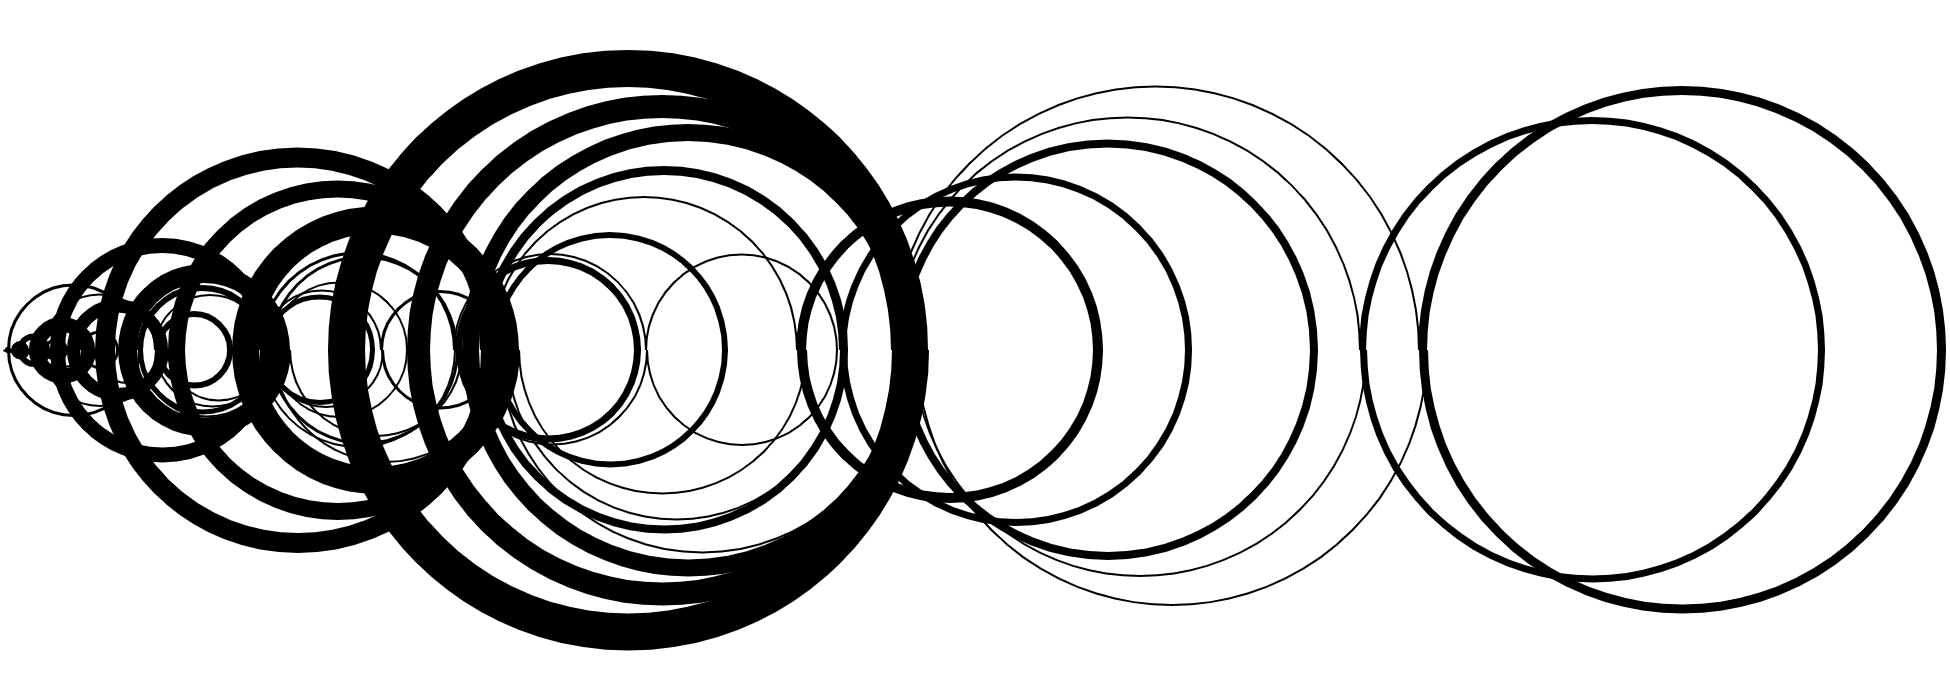
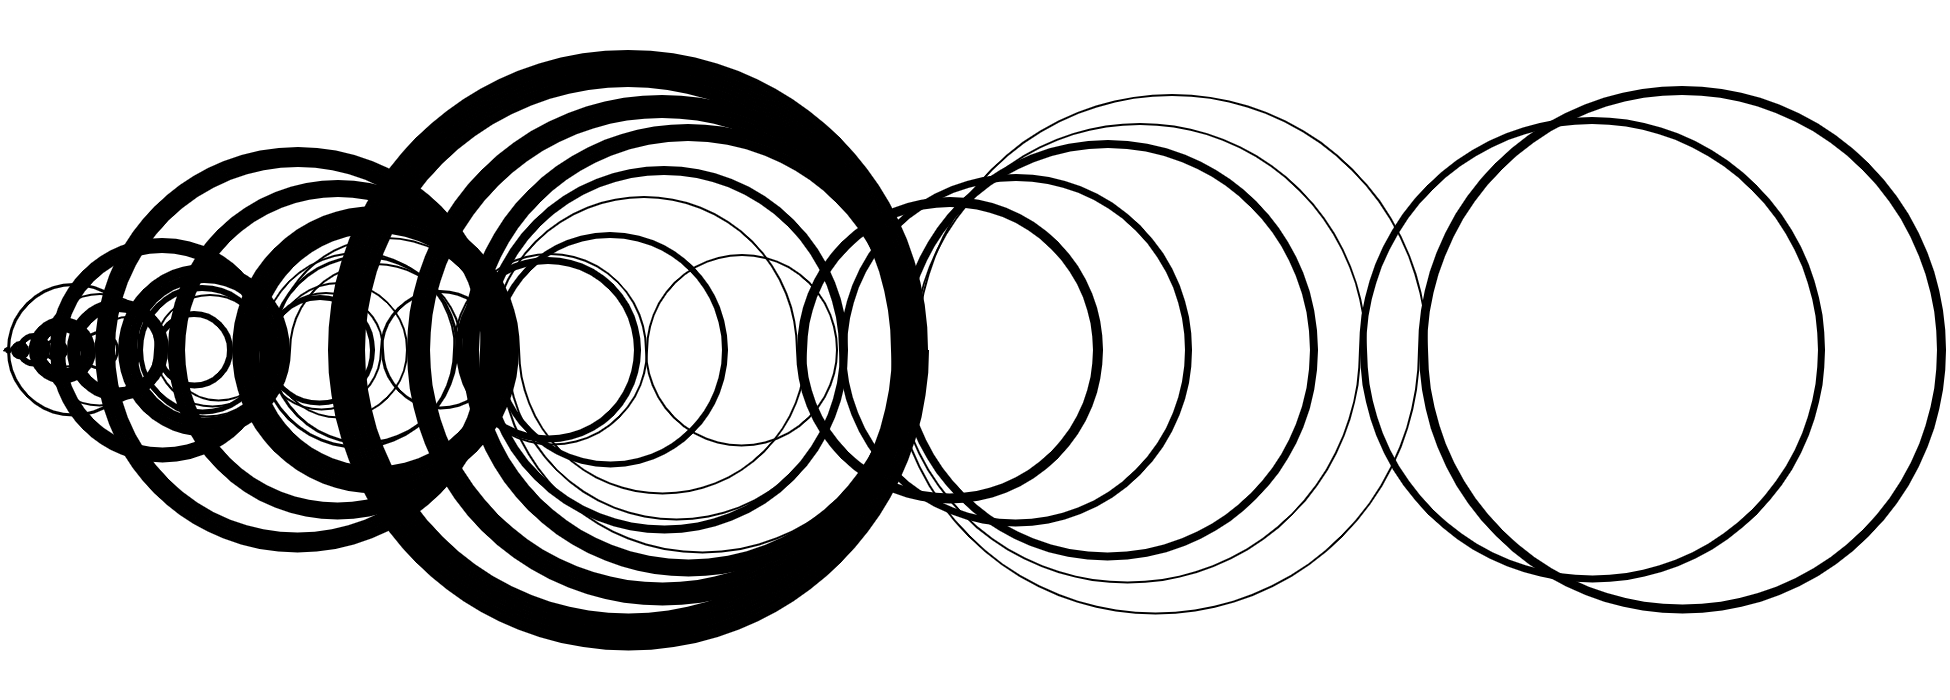
fix bugs: start low and just oscillate

diff --git a/index.js b/index.js
@@ -5,12 +5,11 @@ const ctx = canvas.getContext('2d');
 const MID = canvas.height / 2;
 
 // ctx.arc(x, y, radius, startAngle, endAngle [, anticlockwise]);
-function drawCirc(from, to) {
-  const high = to < from;
+function drawCirc(from, to, high) {
   const radius = Math.abs(to - from) / 2;
   const start = to + (from - to) / 2;
   ctx.beginPath();
-  if (high) {
+  if (!high) {
     ctx.arc(start + 4, MID, radius, Math.PI, 0);
   } else {
     ctx.arc(start + 4, MID, radius, 0, Math.PI);
@@ -28,7 +27,7 @@ while (i < 600) {
   if (nn < 1 || s.has(nn)) {
     nn = n + i;
   }
-  drawCirc(n, nn);
+  drawCirc(n, nn, !!(i % 2));
   s.add(n);
   n = nn;
   i += 1;
